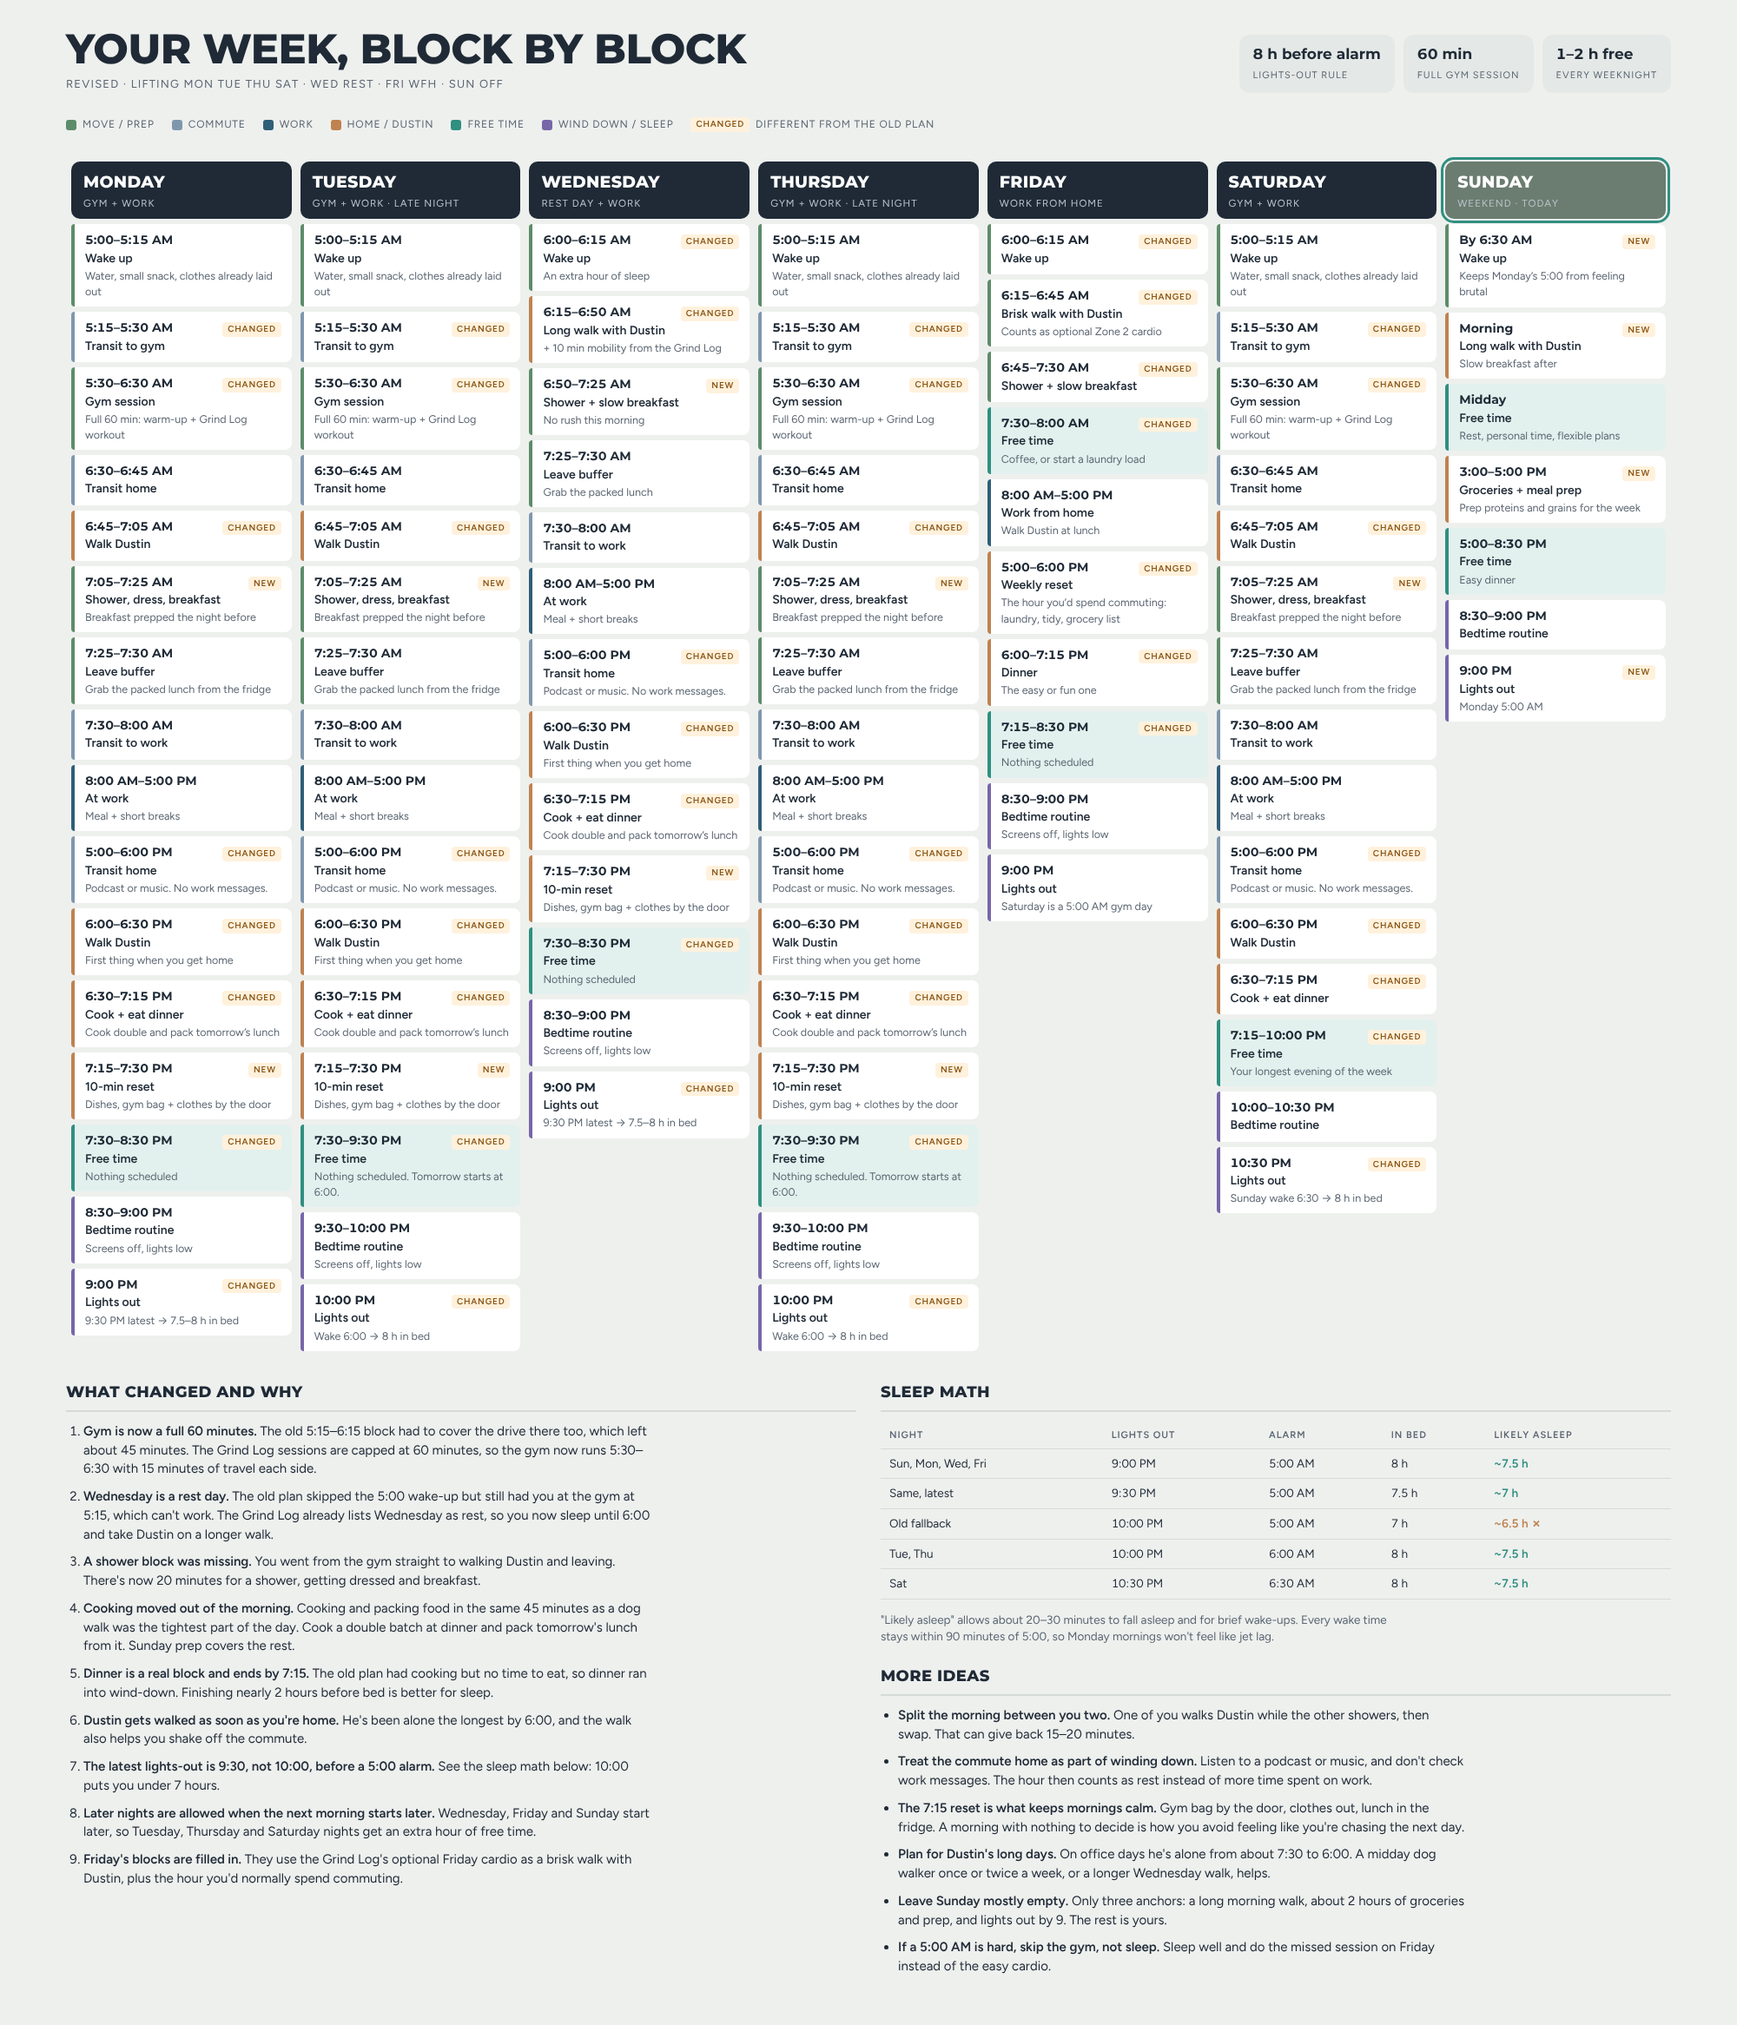
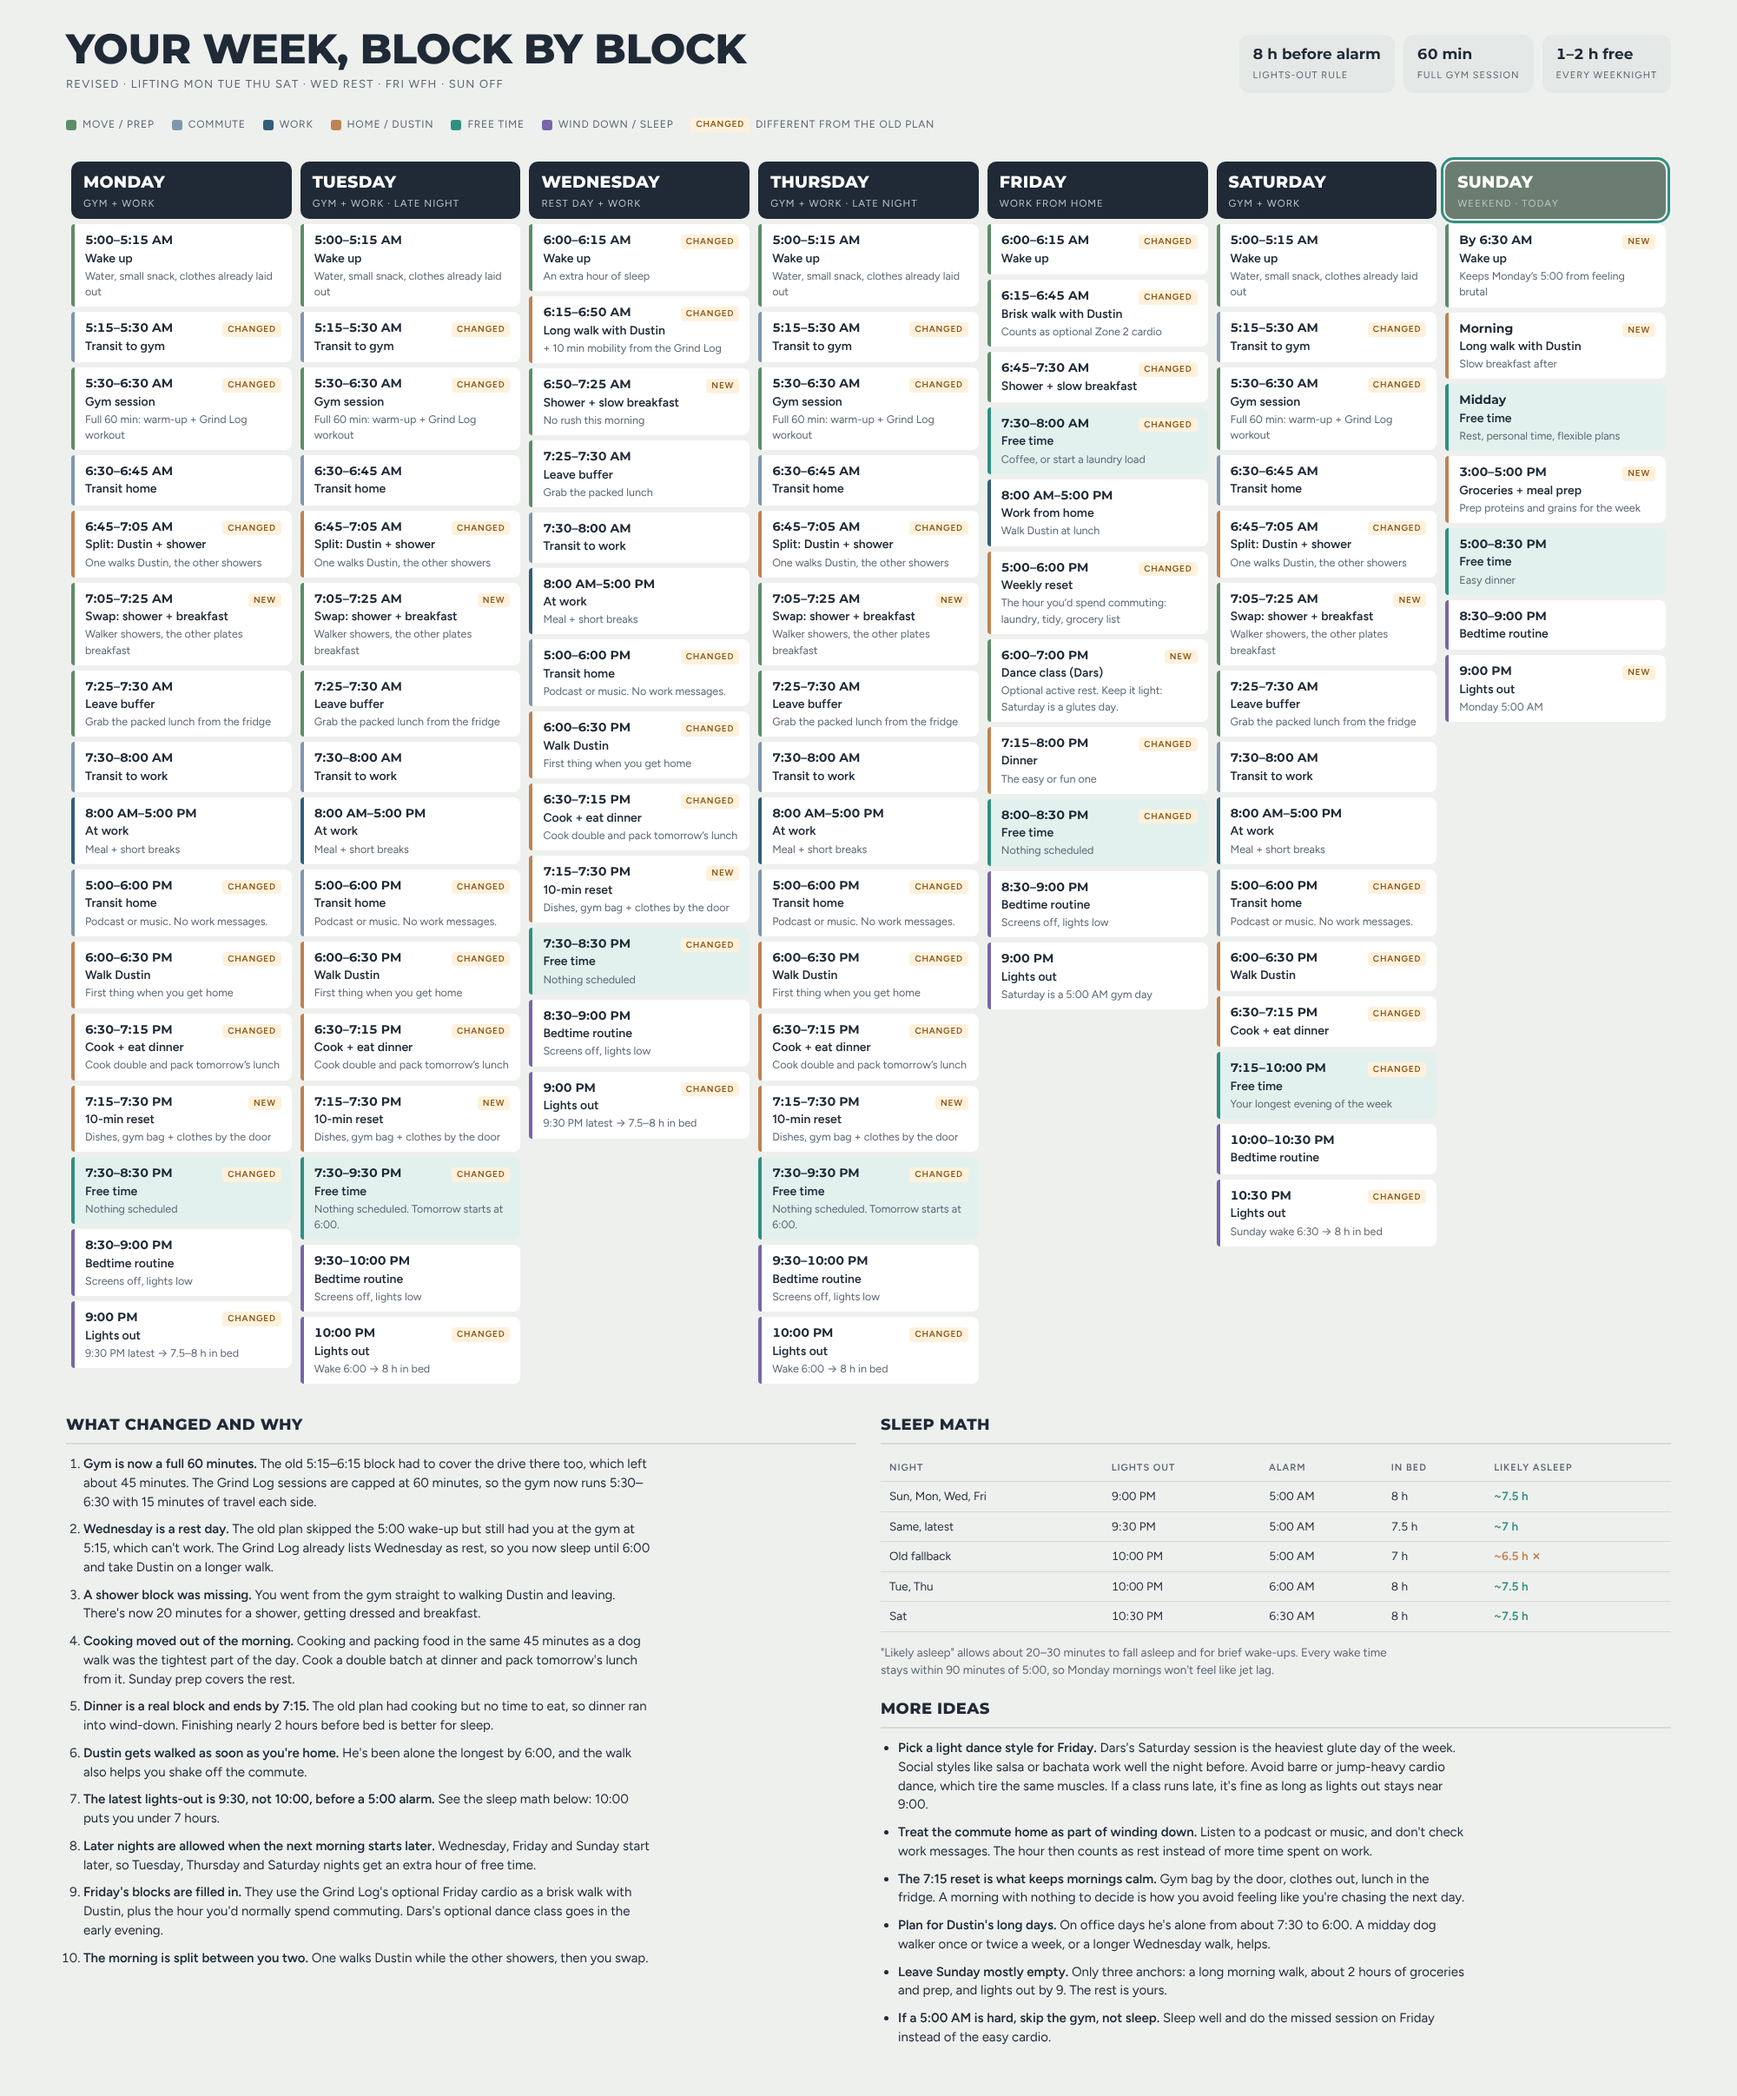
Split morning routine and add optional Friday dance class
Claude-Session: https://claude.ai/code/session_01P8VHWqbbVtjELdcaBCQTm4

diff --git a/weekly-timeblock.html b/weekly-timeblock.html
@@ -109,7 +109,8 @@
         <li><strong>Dustin gets walked as soon as you're home.</strong> He's been alone the longest by 6:00, and the walk also helps you shake off the commute.</li>
         <li><strong>The latest lights-out is 9:30, not 10:00, before a 5:00 alarm.</strong> See the sleep math below: 10:00 puts you under 7 hours.</li>
         <li><strong>Later nights are allowed when the next morning starts later.</strong> Wednesday, Friday and Sunday start later, so Tuesday, Thursday and Saturday nights get an extra hour of free time.</li>
-        <li><strong>Friday's blocks are filled in.</strong> They use the Grind Log's optional Friday cardio as a brisk walk with Dustin, plus the hour you'd normally spend commuting.</li>
+        <li><strong>Friday's blocks are filled in.</strong> They use the Grind Log's optional Friday cardio as a brisk walk with Dustin, plus the hour you'd normally spend commuting. Dars's optional dance class goes in the early evening.</li>
+        <li><strong>The morning is split between you two.</strong> One walks Dustin while the other showers, then you swap.</li>
       </ol>
     </section>
 
@@ -131,7 +132,7 @@
 
       <h2>More ideas</h2>
       <ul class="recs">
-        <li><strong>Split the morning between you two.</strong> One of you walks Dustin while the other showers, then swap. That can give back 15–20 minutes.</li>
+        <li><strong>Pick a light dance style for Friday.</strong> Dars's Saturday session is the heaviest glute day of the week. Social styles like salsa or bachata work well the night before. Avoid barre or jump-heavy cardio dance, which tire the same muscles. If a class runs late, it's fine as long as lights out stays near 9:00.</li>
         <li><strong>Treat the commute home as part of winding down.</strong> Listen to a podcast or music, and don't check work messages. The hour then counts as rest instead of more time spent on work.</li>
         <li><strong>The 7:15 reset is what keeps mornings calm.</strong> Gym bag by the door, clothes out, lunch in the fridge. A morning with nothing to decide is how you avoid feeling like you're chasing the next day.</li>
         <li><strong>Plan for Dustin's long days.</strong> On office days he's alone from about 7:30 to 6:00. A midday dog walker once or twice a week, or a longer Wednesday walk, helps.</li>
@@ -151,8 +152,8 @@ const gymMorning=[
   B('5:15–5:30 AM','Transit to gym','','commute','CHANGED'),
   B('5:30–6:30 AM','Gym session','Full 60 min: warm-up + Grind Log workout','move','CHANGED'),
   B('6:30–6:45 AM','Transit home','','commute'),
-  B('6:45–7:05 AM','Walk Dustin','','home','CHANGED'),
-  B('7:05–7:25 AM','Shower, dress, breakfast','Breakfast prepped the night before','move','NEW'),
+  B('6:45–7:05 AM','Split: Dustin + shower','One walks Dustin, the other showers','home','CHANGED'),
+  B('7:05–7:25 AM','Swap: shower + breakfast','Walker showers, the other plates breakfast','move','NEW'),
   B('7:25–7:30 AM','Leave buffer','Grab the packed lunch from the fridge','move'),
 ];
 const commuteWork=[
@@ -192,8 +193,9 @@ const DAYS=[
     B('7:30–8:00 AM','Free time','Coffee, or start a laundry load','free','CHANGED'),
     B('8:00 AM–5:00 PM','Work from home','Walk Dustin at lunch','work'),
     B('5:00–6:00 PM','Weekly reset','The hour you’d spend commuting: laundry, tidy, grocery list','home','CHANGED'),
-    B('6:00–7:15 PM','Dinner','The easy or fun one','home','CHANGED'),
-    B('7:15–8:30 PM','Free time','Nothing scheduled','free','CHANGED'),
+    B('6:00–7:00 PM','Dance class (Dars)','Optional active rest. Keep it light: Saturday is a glutes day.','move','NEW'),
+    B('7:15–8:00 PM','Dinner','The easy or fun one','home','CHANGED'),
+    B('8:00–8:30 PM','Free time','Nothing scheduled','free','CHANGED'),
     B('8:30–9:00 PM','Bedtime routine','Screens off, lights low','sleep'),
     B('9:00 PM','Lights out','Saturday is a 5:00 AM gym day','sleep'),
   ]},
